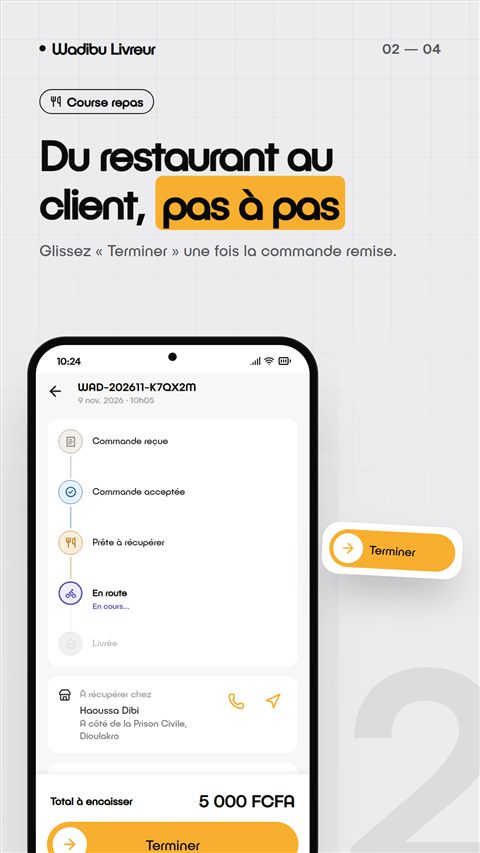
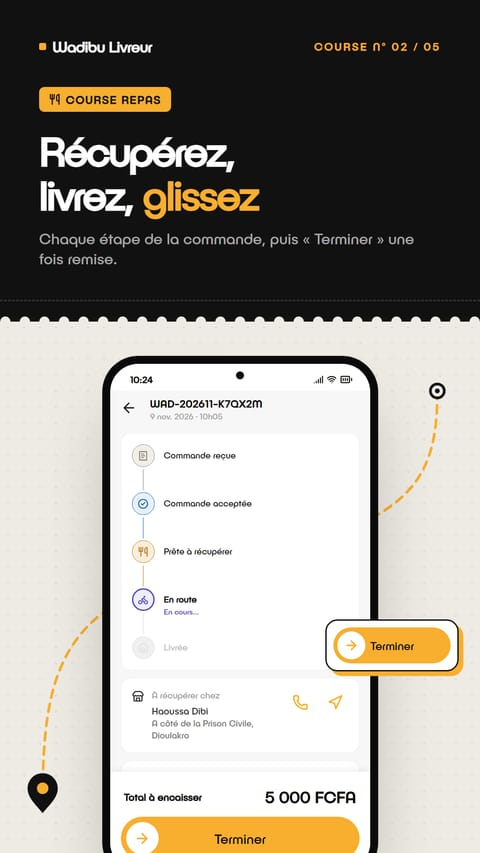
feat(stores): fiche Wadibu Livreur à jour (nouveau design, portefeuille)
- Visuels repris de la nouvelle fiche Play Store du livreur (cadre
  « bon de course ») : présentation et cinq captures, dont le portefeuille.
- Brève description et section « Votre portefeuille » alignées sur
  livreur/design/play-store/fiche.txt.

diff --git a/src/data/stores.ts b/src/data/stores.ts
@@ -162,8 +162,8 @@ export const STORE_APPS: StoreApp[] = [
       en: "Courier app",
     },
     brief: {
-      fr: "L'appli des livreurs Wadibu : vos courses repas et colis, et vos gains du jour.",
-      en: "The Wadibu couriers' app: your meal and parcel runs, and today's earnings.",
+      fr: "L'appli des livreurs Wadibu : courses repas et colis, gains du jour et solde.",
+      en: "The Wadibu couriers' app: meal and parcel runs, today's earnings and balance.",
     },
     icon: "/stores/wadibu-livreur/icone.png",
     banner: "/stores/wadibu-livreur/presentation.jpg",
@@ -190,7 +190,14 @@ export const STORE_APPS: StoreApp[] = [
         },
       },
       {
-        src: "/stores/wadibu-livreur/telephone-04-encaissement.jpg",
+        src: "/stores/wadibu-livreur/telephone-04-portefeuille.jpg",
+        label: {
+          fr: "Portefeuille",
+          en: "Wallet",
+        },
+      },
+      {
+        src: "/stores/wadibu-livreur/telephone-05-encaissement.jpg",
         label: {
           fr: "Encaissement",
           en: "Cash collection",
@@ -234,6 +241,16 @@ export const STORE_APPS: StoreApp[] = [
         bullets: [
           "Pour chaque course, l'appli affiche le montant exact à encaisser en espèces, ou indique que le client a déjà payé en ligne par Wave.",
           "Votre part du jour s'affiche sur l'accueil, celle de chaque colis sur sa fiche.",
+        ],
+        text: "",
+      },
+      {
+        title: "Votre portefeuille",
+        bullets: [
+          "Votre solde toujours visible sur l'accueil, avec une alerte quand il devient bas.",
+          "Rechargez-le par Wave directement depuis l'appli.",
+          "Demandez un retrait : l'équipe Wadibu vous envoie la somme par Wave.",
+          "Chaque mouvement est expliqué : votre part d'une course payée par Wave, la commission d'une course payée en espèces, vos recharges et vos retraits.",
         ],
         text: "",
       },
